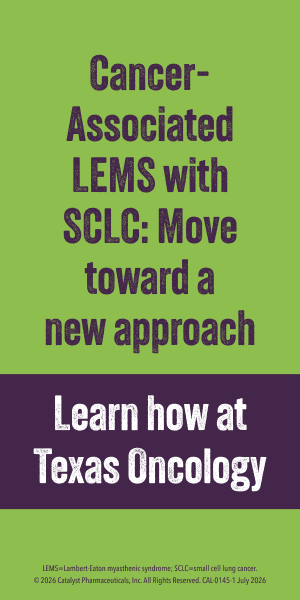
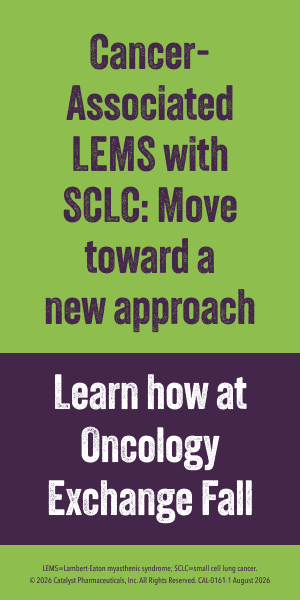
static assets linked to index page

diff --git a/index.html b/index.html
@@ -252,6 +252,25 @@
                     <li>
                         <a href="banners4/070626_Catalyst-Approach_HTML5_CAL-0161-1_728x90/070626_Catalyst-Approach_HTML5_CAL-0161-1_728x90.html">728x90 ION Fall</a>
                     </li>
+                    <li class="group-label group-label--static">Static Assets</li>
+                    <li>
+                        <a href="banners4/statics/300x50_Approach_Mobile_2.png">300x50 ION Fall</a>
+                    </li>
+                    <li>
+                        <a href="banners4/statics/320x50_Approach_Mobile.png">320x50 ION Fall</a>
+                    </li>
+                    <li>
+                        <a href="banners4/statics/300x250_Approach_Static.png">300x250 ION Fall</a>
+                    </li>
+                    <li>
+                        <a href="banners4/statics/336x280_Approach_Static.png">336x280 ION Fall</a>
+                    </li>
+                    <li>
+                        <a href="banners4/statics/728x90_Approach_Static.png">728x90 ION Fall</a>
+                    </li>
+                    <li>
+                        <a href="banners4/statics/300x600_Approach_Static.png">300x600 ION Fall</a>
+                    </li>
                 </ul>
             </details>
         </div>
